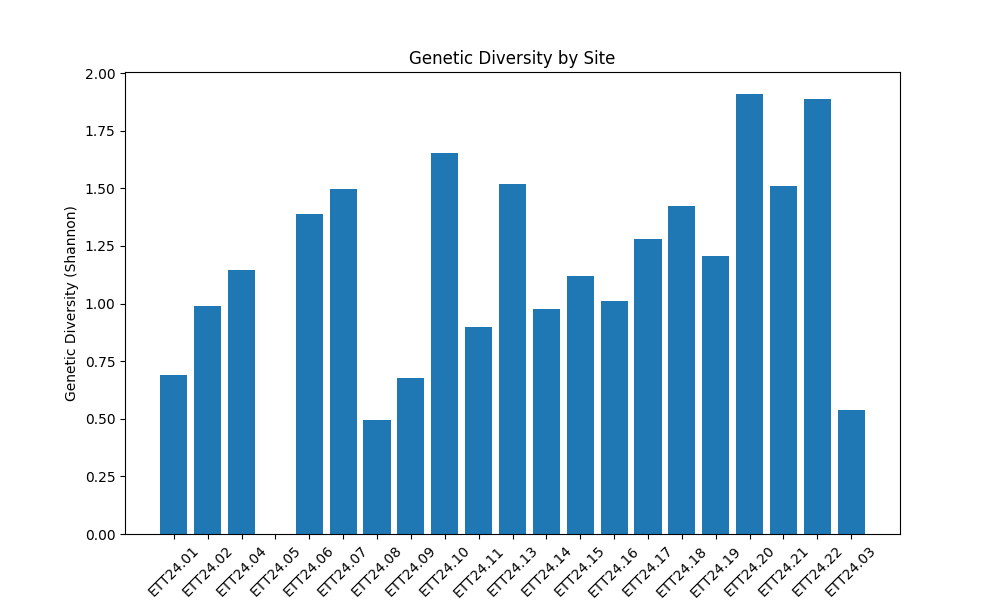
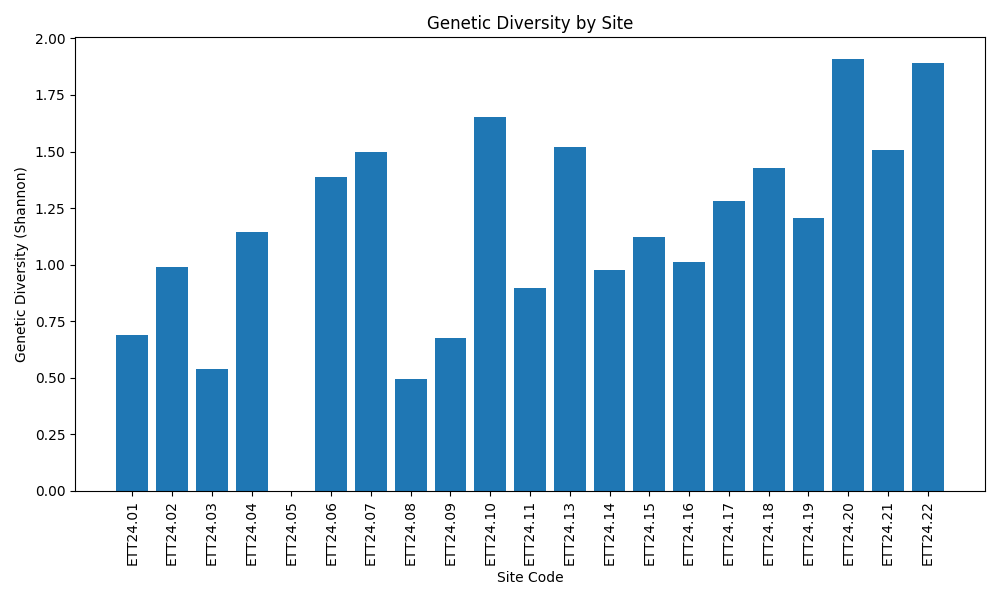
Added features

diff --git a/edna.py b/edna.py
@@ -3,6 +3,8 @@ import numpy as np
 import matplotlib.pyplot as plt
 import seaborn as sns
 import plotly.express as px
+import statsmodels.api as sm
+from statsmodels.formula.api import ols
 
 
 def plot_correlation(corr, data_type):
@@ -29,20 +31,25 @@ def edna(data, data_type):
 
     genetic_data = genetic_data[['Site code', 'Genetic Diversity (shannon)']]
 
-    # drop rows with missing values
-    genetic_data = genetic_data.dropna()
-    # get all with unique site codes
-    genetic_data = genetic_data.drop_duplicates(subset='Site code')
+    # average duplicate site codes
+    genetic_data = genetic_data.groupby('Site code').mean().reset_index()
+
+    # drop ETT24.12
+    genetic_data = genetic_data[genetic_data['Site code'] != 'ETT24.12']
 
     if data is not None:
         print('Data provided. Using provided data...')
         # read data
         plot_genetic_data(genetic_data, data, data_type)
 
+        if "metal" in data_type:
+            plot_metal_relationship(genetic_data, data, data_type)
+
     else:
         print('No data provided. Using default data...')
         plot_genetic_data(genetic_data, data=None, data_type='eDNA')
         plot_species_abundance()
+        plot_stacked_bar_abundance()
 
     # Plotting the heatmap
     return
@@ -52,10 +59,6 @@ def plot_genetic_data(genetic_data, data, data_type):
     if data is not None:
         # plot the genetic data vs the provided data in a scatter matrix
         print('Plotting genetic data vs provided data...')
-
-        print(genetic_data.head())
-
-        print(data.head())
 
         # impute missing values
         print("Imputing missing data...")
@@ -89,24 +92,15 @@ def plot_genetic_data(genetic_data, data, data_type):
 
         print("Correlation between genetic diversity and all other columns:")
 
-        print(genetic_correlation)
-
         print("Saving the correlation to a csv file...")
+
+        # sort by correlation
+        genetic_correlation = genetic_correlation.sort_values(ascending=False)
+
         # save the correlation to a csv file
         genetic_correlation.to_csv(f'data/genetic_correlation_{data_type}.csv')
 
         plot_correlation(corr, data_type)
-
-        print("Plotting the scatter matrix...")
-    else:
-        plt.figure(figsize=(10, 6))
-        plt.bar(genetic_data['Site code'],
-                genetic_data['Genetic Diversity (shannon)'])
-        plt.xlabel('Site Code')
-        plt.ylabel('Genetic Diversity (Shannon)')
-        plt.title('Genetic Diversity by Site')
-        plt.xticks(rotation=45)  # Rotate x-axis ticks by 90 degrees
-        plt.savefig('./plots/eDNA/genetic_diversity.png')
 
     return
 
@@ -130,7 +124,77 @@ def plot_species_abundance():
     # save the plot
     fig.write_image('plots/eDNA/species_abundance.png', width=1200, height=800)
 
-    fig.show()
+    return
+
+
+def plot_stacked_bar_abundance():
+    df = pd.read_csv('data/species_matrix_transposed.csv')
+
+    # print the site code col
+    print(df['Site code'])
+
+    # for each value in the site code column, replace "Site_" with "ETT24."
+    df['Site code'] = df['Site code'].replace("Site_", "ETT24.", regex=True)
+
+    # plot the stacked bar chart with the species abundance on the y-axis and the site code on the x-axis
+    df.set_index('Site code', inplace=True)
+
+    ax = df.plot(kind='bar', stacked=True, figsize=(
+        10, 6), colormap='tab20b', edgecolor='black')
+    plt.title('Species abundance by site code')
+    plt.xlabel('Species')
+    plt.ylabel('Abundance')
+    plt.xticks(rotation=90)
+    plt.tight_layout()
+    plt.legend(bbox_to_anchor=(1.05, 1), loc='upper left')
+    # Add bbox_inches='tight' to include legend
+    plt.savefig('plots/eDNA/stacked_bar_abundance.png', bbox_inches='tight')
+
+    return
+
+
+def plot_metal_relationship(genetic_data, data, data_type):
+
+    # close all plots
+    plt.close('all')
+
+    # plot the relationship between the genetic diversity and the metal concentrations
+    # merge the genetic data with the metal data
+    data = data.filter(regex='Pb|As|Ca|Zn|Ni|Cu|Li|U')
+    merged_data = pd.merge(genetic_data, data, on='Site code')
+
+    # drop na
+    merged_data.dropna(inplace=True)
+
+    # drop the site code column
+    merged_data.drop(columns=['Site code'], inplace=True)
+
+    # perform two-way anova between genetic diversity and metal concentrations
+    print("Performing two-way ANOVA between genetic diversity and metal concentrations...")
+    # create a formula
+    # Assuming merged_data is your DataFrame and has been correctly prepared
+
+    # Create a formula by wrapping column names with spaces in Q("")
+    formula = 'Q("Genetic Diversity (shannon)") ~ ' + \
+        ' + '.join([f'Q("{col}")' for col in merged_data.columns[1:]])
+
+    print(formula)
+
+    # perform the two-way anova
+    model = ols(formula, data=merged_data).fit()
+    anova_table = sm.stats.anova_lm(model, typ=2)
+    print(anova_table)
+
+    # save the anova table to a csv file
+    anova_table.to_csv(f'data/anova_table_{data_type}.csv')
+
+    # plot linear regression between genetic diversity and metal concentrations
+    for i in range(1, len(merged_data.columns)):
+        sns.lmplot(x=merged_data.columns[i], y='Genetic Diversity (shannon)',
+                   data=merged_data, height=6, aspect=1.5, line_kws={'color': 'red'}, ci=None)
+
+        plt.savefig(
+            f'plots/eDNA/genetic_diversity_vs_{data_type}_{i}.png')
 
     return
 

diff --git a/heavy_metals.py b/heavy_metals.py
@@ -10,6 +10,8 @@ def heavy_metals(data):
     heavy_metals = data.iloc[:, 21:65]
     site_code = data['Site code']
 
+    print(heavy_metals.describe())
+
     # add site code first col
     heavy_metals.insert(0, 'Site code', site_code)
 
